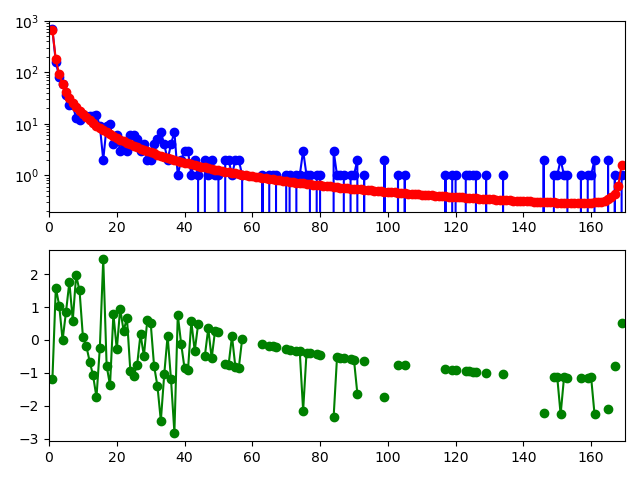
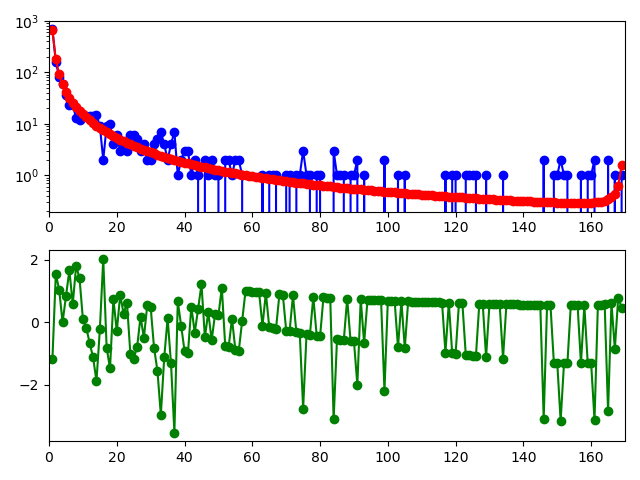
updates to text and figures in dfe

Changed region(s): [[0.0312, 0.5312, 1.0, 0.9062], [0.0312, 0.9062, 0.0625, 0.9375], [0.0312, 0.8438, 0.0625, 0.875]]

diff --git a/docs/data/plot_msl_spectra.py b/docs/data/plot_msl_spectra.py
@@ -1,8 +1,8 @@
 import pickle
 import matplotlib.pylab as plt
 
-def plot_fs(ax, fs, lw=0.7, ms=3, label=None):
-    ax.plot(fs, ".-", lw=lw, ms=2, label=label)
+def plot_fs(ax, fs, lw=1, ms=3, label=None):
+    ax.plot(fs, ".-", lw=lw, ms=ms, label=label)
 
 if __name__ == "__main__":
     data = pickle.load(open("msl_data.bp", "rb"))
@@ -12,9 +12,9 @@ if __name__ == "__main__":
     fs_lof = data["spectra"]["lof"]
     fs_lof.mask[fs_lof == 0] = True # for plotting niceness
 
-    fig = plt.figure(figsize=(10, 4))
+    fig = plt.figure(figsize=(6, 6))
     
-    ax1 = plt.subplot(1, 2, 1)
+    ax1 = plt.subplot(2, 1, 1)
 
     plot_fs(ax1, fs_syn, label="Synonymous")
     plot_fs(ax1, fs_mis, label="Missense")
@@ -24,16 +24,18 @@ if __name__ == "__main__":
     ax1.set_ylabel("Count")
     ax1.set_xlabel("Derived allele frequency")
     ax1.legend(frameon=False)
+    ax1.set_xlim([0, fs_syn.sample_sizes[0]])
 
-    ax1 = plt.subplot(1, 2, 2)
+    ax2 = plt.subplot(2, 1, 2)
     
-    plot_fs(ax1, fs_syn / fs_syn.S(), label="Synonymous")
-    plot_fs(ax1, fs_mis / fs_mis.S(), label="Missense")
-    plot_fs(ax1, fs_lof / fs_lof.S(), label="Loss of function")
+    plot_fs(ax2, fs_syn / fs_syn.S(), label="Synonymous")
+    plot_fs(ax2, fs_mis / fs_mis.S(), label="Missense")
+    plot_fs(ax2, fs_lof / fs_lof.S(), label="Loss of function")
     
-    ax1.set_yscale("log")
-    ax1.set_ylabel("Proportion")
-    ax1.set_xlabel("Derived allele frequency")
+    ax2.set_yscale("log")
+    ax2.set_ylabel("Proportion")
+    ax2.set_xlabel("Derived allele frequency")
+    ax2.set_xlim([0, fs_syn.sample_sizes[0]])
 
     plt.tight_layout()
     plt.savefig("../figures/msl_spectra.png")

diff --git a/docs/dfe.rst b/docs/dfe.rst
@@ -3,7 +3,7 @@ Module: DFE inference
 =====================
 .. jupyter-kernel:: python3
 
-By Aaron Ragsdale, Nov 2020.
+By Aaron Ragsdale, November 2020.
 
 The distribution of fitness effects (DFE) for new mutations describes is a fundamental
 parameter in evolutionary biology - it determines the fixation probability of new
@@ -24,16 +24,16 @@ in each class.
 Data
 ****
 
-Let's first look at the data we'll be working with. Here, I used sing-population data
+Let's first look at the data we'll be working with. Here, I used single-population data
 from the Mende from Sierre Leone (MSL) from the 1000 Genomes Project [1000G]_. In
 :numref:`all_data`, I plotted the unfolded SFS for three classes of mutations 
-in coding regions genome-wise. We can see that the missense variants are skewed
+in coding regions genome-wide. We can see that the missense variants are skewed
 to lower frequencies than synonymous variants, on average, and loss-of-function
 (LOF) variants are skewed to even lower frequencies.
 
 It can be difficult to judge the skew of the SFS based on SFS counts, since the total
 mutational target for each mutation class differs (:numref:`mutation_rates`). In the
-right panel of the plot, we can see that of all LOF variants observed in the MSL
+bottom panel of the plot, we can see that of all LOF variants observed in the MSL
 population, roughly 50% of them are singletons; compare that to synonymous variants,
 of which less than 30% are singletons.
 
@@ -42,7 +42,7 @@ of which less than 30% are singletons.
     :align: center
 
     Synonymous, missense, and loss-of-function SFS from the 1000 Genomes Project
-    across all autosomal genes. Left: counts in each frequency bin. Right: proportions
+    across all autosomal genes. Top: counts in each frequency bin. Bottom: proportions
     in each frequency bin.
 
 
@@ -62,7 +62,7 @@ get the total mutation rate (``u*L``) for each of the three mutation classes sho
 in :numref:`all_data`:
 
 .. _mutation_rates:
-.. list-table:: Mutation rates
+.. list-table:: Total mutation rates for classes of mutations in coding regions.
     :align: center
 
     * - Mutation class
@@ -161,15 +161,14 @@ In practice, you would want to test a wide range of initial conditions to make s
 our inference didn't get stuck at a local minimum.
 
 We can see how well our model fit the synonymous data by calling
-``moments.Plotting.plot_1d_comp_multinom(model, fs_syn)``:
+``moments.Plotting.plot_1d_comp_multinom(model, fs_syn, residual="linear")``:
 
 .. _syn_fit:
 .. figure:: figures/msl_syn_comparison.png
     :align: center
 
     Demographic model fit to the MSL synonymous data. Top: model (red) and synonymous
-    data (blue) SFS. Bottom: residuals, plotted as (model - data) / sqrt(data).
-    [Note to self, check residual calculation.]
+    data (blue) SFS. Bottom: residuals, plotted as ``(model - data) / sqrt(data)``.
 
 That's a pretty good fit! Now that we have our inferred demographic model, let's
 move on to inferring the DFEs for missense and LOF variants.
@@ -178,8 +177,27 @@ move on to inferring the DFEs for missense and LOF variants.
 Inferring the DFE
 *****************
 
-.. todo::
-    The general strategy, and why we cache spectra. See [Ragsdale]_, [Kim]_
+Now that we have a plausible demographic model, we can move to the selected SFS.
+Not every new missense mutation or every new LOF mutation will have the same
+fitness effect, so we aim to learn the *distribution* of selection coefficients
+of new mutations. Here, we are going to assume an additive model of selection -
+that is, heterozygotes have fitness effect :math:`1+s` while homozygotes for the
+derived allele have fitness effect :math:`1+2s`. We're also only going to focus
+on the deleterious DFE - we assume beneficial mutations are very rare, and we'll
+ignore them.
+
+The general strategy is to pick some distribution (here, we'll choose a
+`gamma distribution <https://www.wikipedia.org/wiki/Gamma_distribution>`_,
+though other distributions such a log-normal or point masses could be used),
+and then infer the parameters of that distribution. To do so, we compute a large
+number of SFS spanning the range of the distribution of possible :math:`\gamma=2N_es`
+values, and then combine them based on weights given by the parameterized DFE
+(for example, [Ragsdale]_, [Kim]_).
+
+Because the underlying demographic model does not change, we can cache the SFS
+for each value of :math:`\gamma`. Then in optimizing the DFE parameters, we just
+have a weighted sum across this cache, and this makes the actual DFE inference
+very rapid.
 
 Caching SFS
 -----------
@@ -198,6 +216,7 @@ Caching SFS
                 np.log(opt_params[1] / opt_params[0]) * t / opt_params[3])]
             fs.integrate(nu_func, opt_params[3], gamma=gamma)
             if abs(np.max(fs)) > 10 or np.any(np.isnan(fs)):
+                # large gamma-values can require large sample sizes for stability
                 rerun = True
             else:
                 rerun = False
@@ -269,7 +288,7 @@ Fit missense variants:
     print("anc misid:", f"{opt_params_mis[2]:.4f}")
 
 To visualize the fit of our inferred model to the missense data, we run
-``moments.Plotting.plot_1d_comp_Poisson(model_mis, fs_mis)``:
+``moments.Plotting.plot_1d_comp_Poisson(model_mis, fs_mis, residual="linear")``:
 
 .. _mis_fit:
 .. figure:: figures/msl_mis_comparison.png
@@ -297,7 +316,7 @@ Next, we LOF variants in exactly the same way:
     print("anc misid:", f"{opt_params_lof[2]:.4f}")
 
 And again we visualize the fit of our inferred model to the LOF data with
-``moments.Plotting.plot_1d_comp_Poisson(model_lof, fs_lof)``:
+``moments.Plotting.plot_1d_comp_Poisson(model_lof, fs_lof, residual="linear")``:
 
 .. _lof_fit:
 .. figure:: figures/msl_lof_comparison.png
@@ -310,7 +329,9 @@ data and the function ``scipy.stats.gamma.cdf()``, we can compute the proportion
 of new missense and LOF mutations across bins of selection coefficients:
 
 .. _dfes:
-.. list-table:: DFEs
+.. list-table:: The DFE for missense and loss-of-function variants binned by selection
+    coefficients, ranging from neutral or nearly neutral (:math:`|s| < 10^{-5}`) to
+    strongly deleterious and lethal (:math:`|s|\geq10^{-2}`).
     :align: center
 
     * - Class
@@ -344,6 +365,17 @@ Sensitivity to the demographic model
     What if we fit a model that does a worse job at fitting the synonymous data - how
     robust are our results? What if we don't fit the demography at all and just assume
     steady-state demography, as a worst-case scenario?
+
+********************************
+Non-additive models of selection
+********************************
+
+.. todo::
+    Here, we've assumed that selective effects are additive. There is growing evidence
+    that deleterious mutations tend toward partial recessivity, and the relationship
+    between selection and domininance coefficients is non-trivial (strongly deleterious
+    mutations are likely to be more recessive on average than weakly deleterious
+    mutations). What happens if we try to take such effects into account?
 
 *********************************
 Are synonymous mutations neutral?
